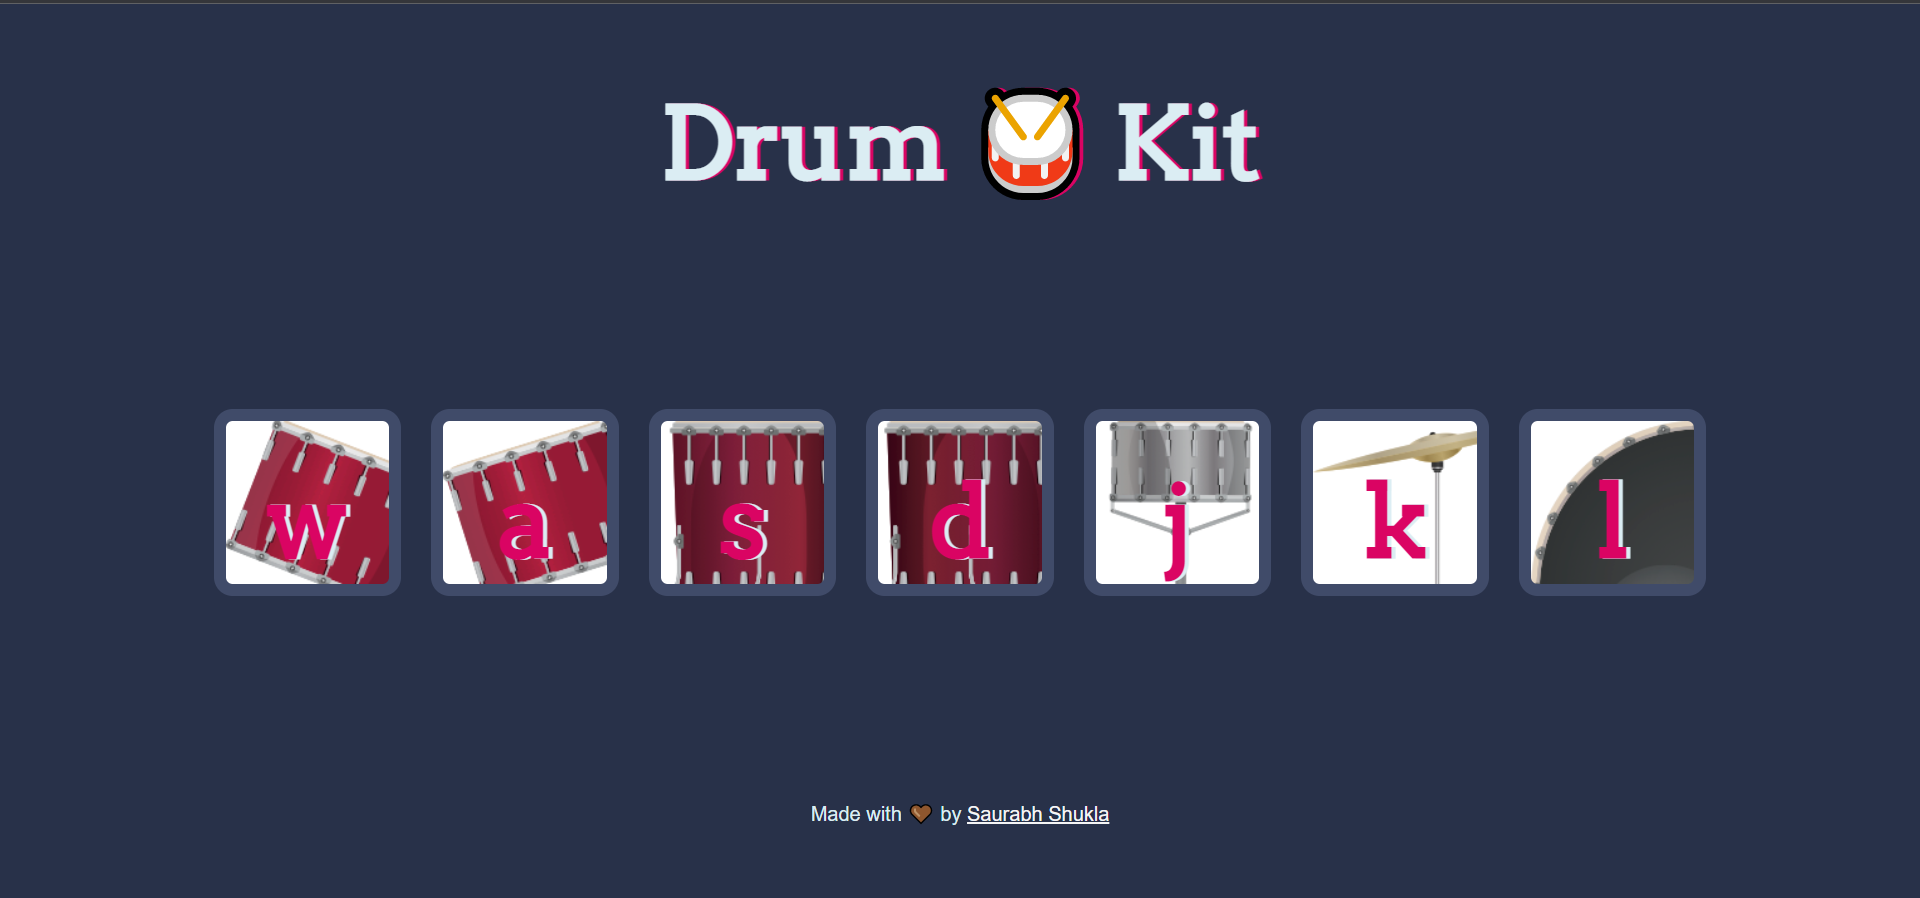
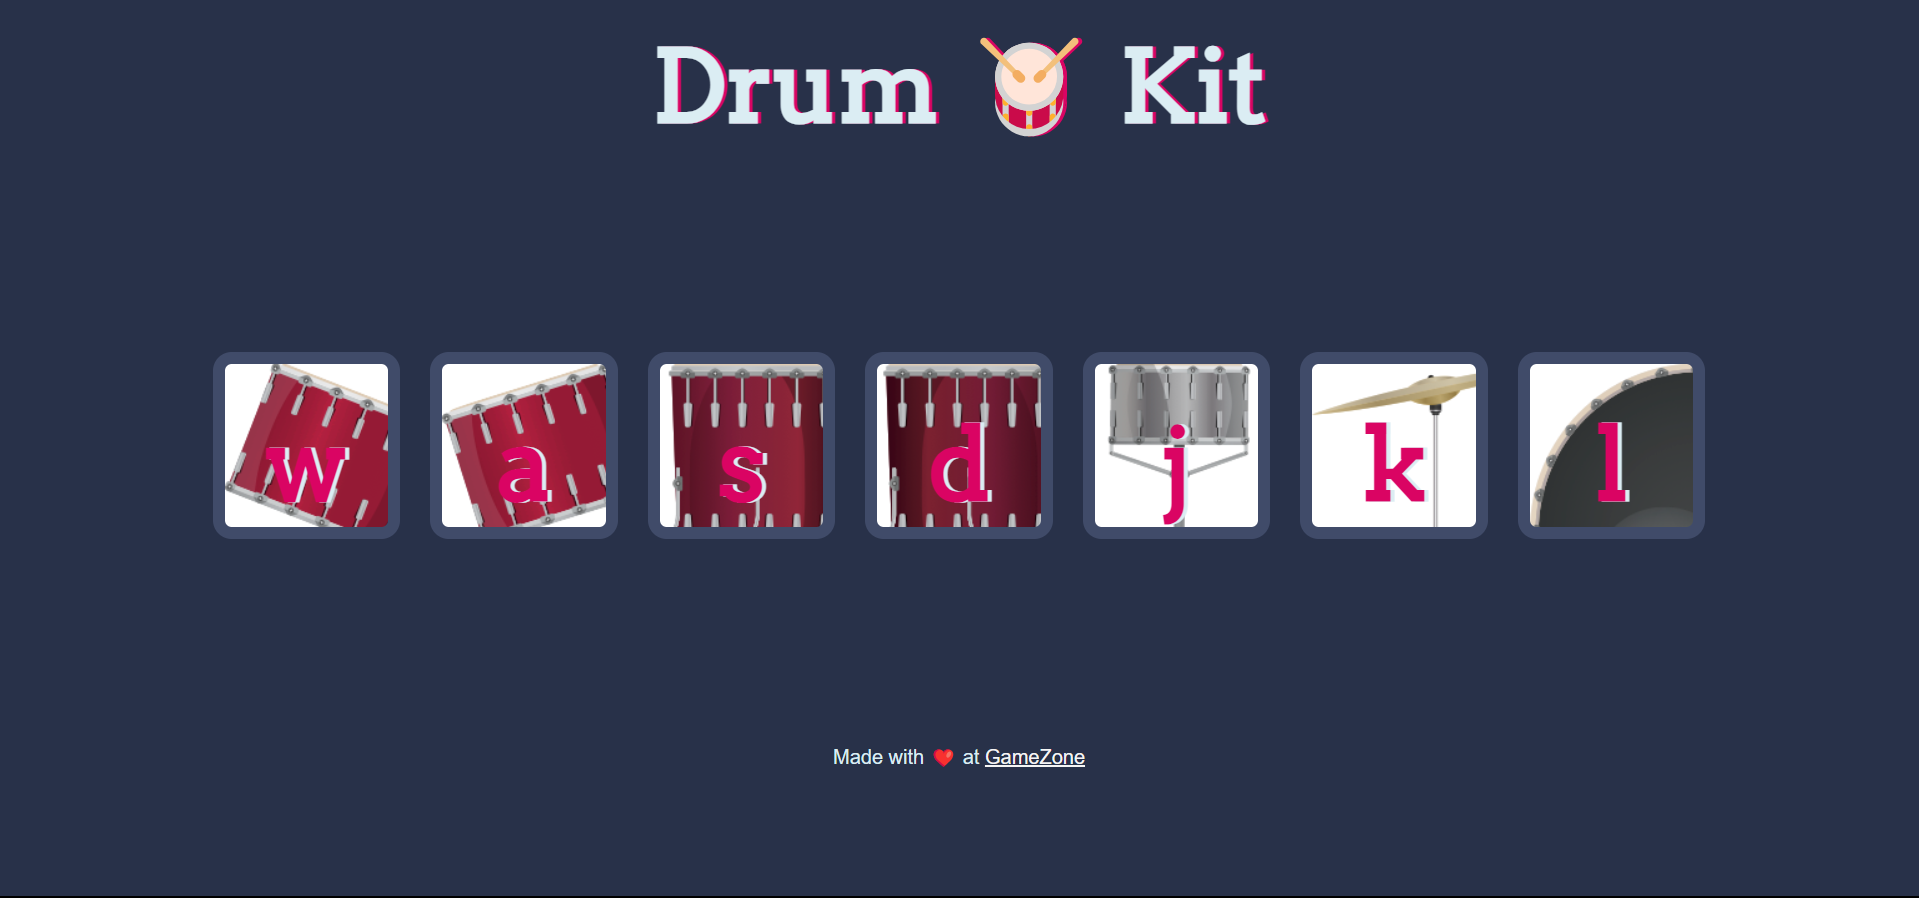
Changed Foote

diff --git a/Games/Drum_Kit_Game/index.html b/Games/Drum_Kit_Game/index.html
@@ -23,7 +23,7 @@
 
 
   <footer>
-    <p>Made with 🤎 by <a href="https://www.linkedin.com/in/saurabh-shukla-0b45b3224/" target="_blank">Saurabh Shukla</a></p>
+    <p>Made with ❤ at <a href="https://kunjgit.github.io/GameZone/" target="_blank">GameZone</a></p>
   </footer>
   <script src="script.js"></script>
 </body>
